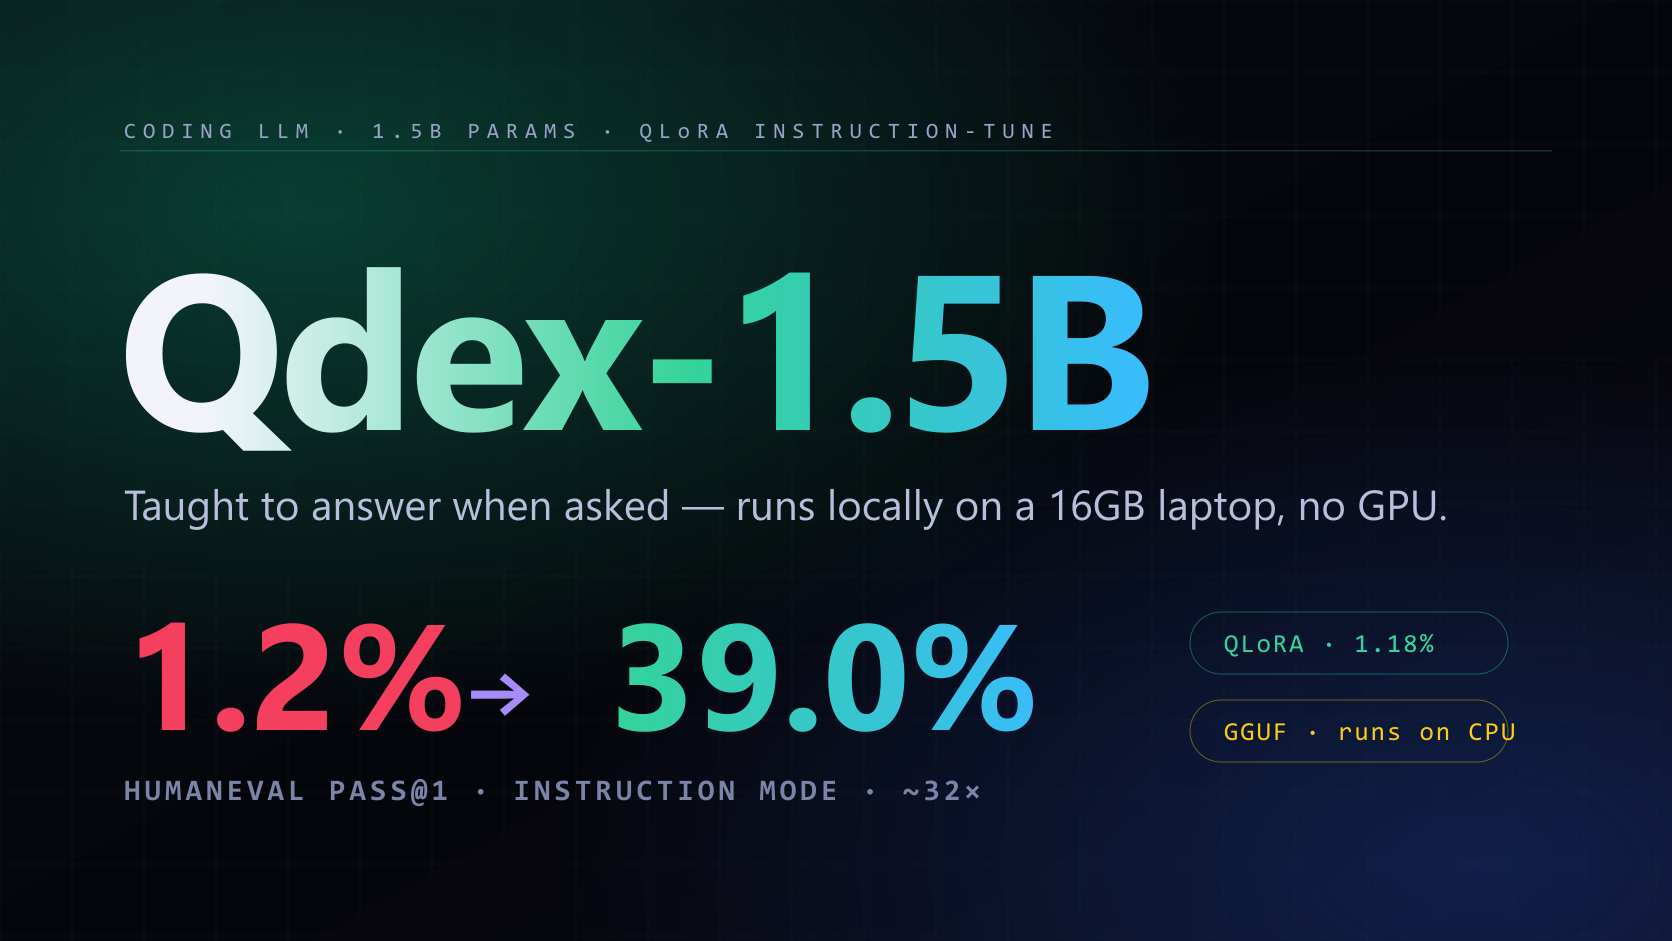
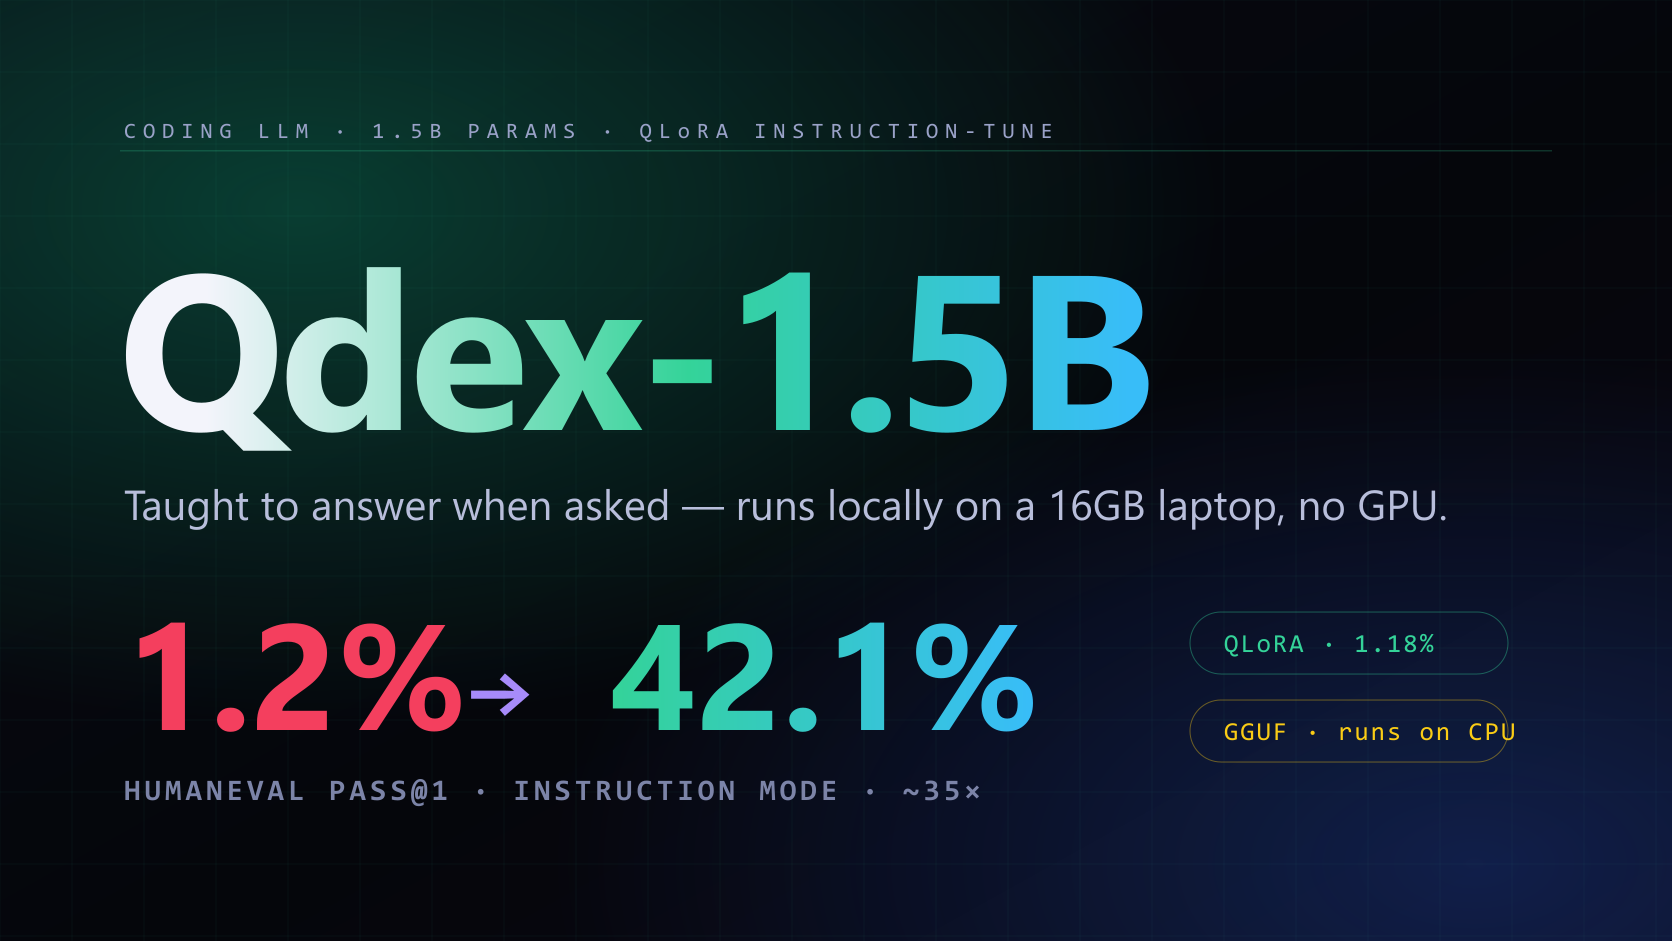
fix(llms): correct Qdex-1.5B HumanEval score to 42.1% after scorer fix
Audited the eval harness — the instruction-mode scorer was undercounting
(correct solutions failing on output-formatting artifacts). Hardened the
extractor and re-ran the full 164-problem benchmark for a fair number.

- 39.0% -> 42.1%, 64/164 -> 69/164, ~32x -> ~35x throughout
- reframe interpretation: Qdex now matches and slightly edges the base
  model's raw-completion ability (42.1% vs 40.2%), not just "recovers ~97%"
- stat band: "97% of base recovered" -> "+1.9 pts above base raw-completion"
- add the benchmark-audit note to the Engineering challenges section
- regenerate homepage cover image (public/qdex-images/cover.png)

Changed region(s): [[0.3421, 0.6472, 0.4665, 0.8013], [0.4976, 0.6472, 0.5598, 0.7705]]

diff --git a/app/llms/qdex-1.5b/page.tsx b/app/llms/qdex-1.5b/page.tsx
@@ -13,7 +13,7 @@ const SITE_URL = "https://sumandebnath.houseofnamus.com";
 export const metadata: Metadata = {
   title: "Qdex-1.5B — a 1.5B coding LLM, QLoRA-tuned to follow instructions and run locally (GGUF · CPU)",
   description:
-    "Qdex-1.5B is an instruction-tuned coding model built on Qwen2.5-Coder-1.5B with QLoRA. Fine-tuning lifted instruction-mode HumanEval pass@1 from 1.2% to 39.0% (~32×), recovering ~97% of the base model's raw coding ability — and it runs locally on a 16GB no-GPU laptop via Ollama / llama.cpp (GGUF). Open weights on Hugging Face, code on GitHub.",
+    "Qdex-1.5B is an instruction-tuned coding model built on Qwen2.5-Coder-1.5B with QLoRA. Fine-tuning lifted instruction-mode HumanEval pass@1 from 1.2% to 42.1% (~35×), matching and slightly edging the base model's raw coding ability (42.1% vs 40.2%) — and it runs locally on a 16GB no-GPU laptop via Ollama / llama.cpp (GGUF). Open weights on Hugging Face, code on GitHub.",
   keywords: [
     "Qdex-1.5B",
     "Qdex",
@@ -42,7 +42,7 @@ export const metadata: Metadata = {
     type: "website",
     title: "Qdex-1.5B · taught to answer when asked",
     description:
-      "A 1.5B coding LLM, QLoRA-tuned on Qwen2.5-Coder-1.5B. Instruction-mode HumanEval pass@1: 1.2% → 39.0% (~32×), ~97% of the base model's raw ability — runs locally on CPU via GGUF.",
+      "A 1.5B coding LLM, QLoRA-tuned on Qwen2.5-Coder-1.5B. Instruction-mode HumanEval pass@1: 1.2% → 42.1% (~35×), matching and slightly edging the base model's raw ability — runs locally on CPU via GGUF.",
     url: "/llms/qdex-1.5b",
     images: [{ url: "/og-image.png", width: 1200, height: 630, alt: "Qdex-1.5B — a small coding LLM that runs on your laptop." }],
   },
@@ -50,7 +50,7 @@ export const metadata: Metadata = {
     card: "summary_large_image",
     title: "Qdex-1.5B · a 1.5B coding LLM that runs on your laptop",
     description:
-      "QLoRA fine-tune of Qwen2.5-Coder-1.5B. Instruction-mode HumanEval: 1.2% → 39.0%. GGUF, runs on a 16GB no-GPU laptop. Open weights.",
+      "QLoRA fine-tune of Qwen2.5-Coder-1.5B. Instruction-mode HumanEval: 1.2% → 42.1%. GGUF, runs on a 16GB no-GPU laptop. Open weights.",
     images: ["/og-image.png"],
   },
 };
@@ -81,7 +81,7 @@ const articleJsonLd = {
   "@type": "TechArticle",
   headline: "Qdex-1.5B — teaching a small coding model to answer when asked",
   description:
-    "How a 1.5B coding model was instruction-tuned with QLoRA — lifting instruction-mode HumanEval pass@1 from 1.2% to 39.0%, recovering ~97% of the base model's raw coding ability, and exporting it to GGUF for local CPU use.",
+    "How a 1.5B coding model was instruction-tuned with QLoRA — lifting instruction-mode HumanEval pass@1 from 1.2% to 42.1%, matching and slightly edging the base model's raw coding ability, and exporting it to GGUF for local CPU use.",
   author: { "@type": "Person", name: "Suman Debnath", url: SITE_URL },
   mainEntityOfPage: `${SITE_URL}/llms/qdex-1.5b`,
   image: `${SITE_URL}/og-image.png`,
@@ -179,8 +179,8 @@ export default function QdexPage() {
                     <span className="text-[#f3f4fb]">locally on a 16GB laptop with no GPU</span>. Fine-tuning lifted
                     instruction-mode HumanEval from{" "}
                     <span className="text-[#F43F5E] font-medium">1.2%</span> to{" "}
-                    <span className="text-[#34D399] font-medium">39.0%</span> — a{" "}
-                    <span className="text-[#38BDF8] font-medium">~32×</span> jump.
+                    <span className="text-[#34D399] font-medium">42.1%</span> — a{" "}
+                    <span className="text-[#38BDF8] font-medium">~35×</span> jump.
                   </p>
                 </Reveal>
 
@@ -233,11 +233,12 @@ export default function QdexPage() {
               <p className="font-dmmono text-[10px] uppercase tracking-[0.3em] text-[#5a6286] mb-4">// tl;dr — the headline result</p>
               <p className="font-manrope text-lg md:text-xl text-[#c4cae6] leading-relaxed">
                 Fine-tuning took this model from <span className="text-[#F43F5E] font-medium">1.2%</span> to{" "}
-                <span className="text-[#34D399] font-medium">39.0%</span> on HumanEval (pass@1) in
-                instruction-following mode. In doing so it recovered{" "}
-                <span className="text-[#f3f4fb] font-medium">~97% of the base model&rsquo;s raw coding ability</span>{" "}
-                (39.0% vs 40.2%), while making that ability actually usable through natural instructions. The
-                fine-tune didn&rsquo;t teach the model new programming knowledge — it taught it to{" "}
+                <span className="text-[#34D399] font-medium">42.1%</span> on HumanEval (pass@1) in
+                instruction-following mode. In doing so it{" "}
+                <span className="text-[#f3f4fb] font-medium">matched and slightly edged the base model&rsquo;s raw coding ability</span>{" "}
+                (42.1% vs the base model&rsquo;s 40.2% raw-completion score) — it learned to follow instructions and
+                kept all of its coding skill, while making that ability actually usable through natural
+                instructions. The fine-tune didn&rsquo;t teach the model new programming knowledge — it taught it to{" "}
                 <span className="font-serif italic text-[#34D399]">answer when asked</span>.
               </p>
             </Reveal>
@@ -245,9 +246,9 @@ export default function QdexPage() {
             <Reveal delay={0.1} className="max-w-5xl mx-auto">
               <div className="grid grid-cols-2 md:grid-cols-3 lg:grid-cols-6 gap-px rounded-2xl overflow-hidden border border-white/[0.08] bg-white/[0.06]">
                 {[
-                  { v: <><StatCounter value={1.2} decimals={1} suffix="→39" /></>, l: "HumanEval pass@1 (instruct)", c: "#34D399" },
-                  { v: <StatCounter value={32} suffix="×" />, l: "instruction-mode jump", c: "#38BDF8" },
-                  { v: <StatCounter value={97} suffix="%" />, l: "of base ability recovered", c: "#A78BFA" },
+                  { v: <><StatCounter value={1.2} decimals={1} suffix="→42" /></>, l: "HumanEval pass@1 (instruct)", c: "#34D399" },
+                  { v: <StatCounter value={35} suffix="×" />, l: "instruction-mode jump", c: "#38BDF8" },
+                  { v: <StatCounter value={1.9} decimals={1} prefix="+" suffix=" pts" />, l: "above base raw-completion", c: "#A78BFA" },
                   { v: <StatCounter value={1.18} decimals={2} suffix="%" />, l: "params trained (QLoRA)", c: "#FACC15" },
                   { v: <StatCounter value={1} suffix=" GB" />, l: "GGUF · runs on CPU", c: "#F97316" },
                   { v: <StatCounter value={0} prefix="₹" />, l: "cost · free T4 GPU", c: "#F43F5E" },
@@ -299,7 +300,7 @@ export default function QdexPage() {
                     <div className="pt-2 border-t border-white/[0.07]">
                       <p className="text-[#5a6286]">// instruction — &ldquo;write a function that&hellip;&rdquo;</p>
                       <p className="text-[#e6e9f5]">base: <span className="text-[#F43F5E]">✗ rambles · 1.2%</span></p>
-                      <p className="text-[#e6e9f5]">Qdex: <span className="text-[#34D399]">✓ answers · 39.0%</span></p>
+                      <p className="text-[#e6e9f5]">Qdex: <span className="text-[#34D399]">✓ answers · 42.1%</span></p>
                     </div>
                   </div>
                   <p className="font-manrope text-xs text-[#7c84a8] mt-5 leading-relaxed">
@@ -353,8 +354,8 @@ export default function QdexPage() {
                       The base model could code (40.2% in completion mode — which also matches the published paper,
                       confirming the harness is sound), but was nearly useless when actually{" "}
                       <em className="text-[#dfe3f2]">asked</em> (1.2%). After fine-tuning, Qdex answers coding
-                      requests at <span className="text-[#34D399] font-medium">39.0%</span> — almost the model&rsquo;s
-                      full latent ability, now reachable through instructions.
+                      requests at <span className="text-[#34D399] font-medium">42.1%</span> — matching, and slightly
+                      edging, the model&rsquo;s full latent ability, now reachable through instructions.
                     </p>
                   </div>
                 </Reveal>
@@ -583,6 +584,12 @@ export default function QdexPage() {
                   <span>The third run completed and every artifact survived. The lesson — assume the session can die at any moment — is what separates a notebook that works once from a pipeline you can trust.</span>
                 </div>
               </Reveal>
+              <Reveal delay={0.12}>
+                <div className="flex items-start gap-3 mt-4 font-dmmono text-[11.5px] text-[#d8d9f4] border-l-2 border-[#8FD6FB]/60 pl-4 py-1">
+                  <span className="text-[#8FD6FB] text-base leading-none mt-0.5">⌖</span>
+                  <span>I also audited my own benchmark and found a scoring bug that was undercounting the model — correct solutions were failing on output-formatting artifacts. I hardened the extractor, added a regression test, and re-ran the full benchmark for a fair number (39.0% → 42.1%).</span>
+                </div>
+              </Reveal>
             </div>
           </section>
 
@@ -663,7 +670,7 @@ export default function QdexPage() {
 
                   <div className="hidden md:flex w-44 lg:w-52 shrink-0 aspect-square rounded-2xl border border-white/15 bg-[#06120f]/60 items-center justify-center">
                     <span className="font-manrope font-semibold text-2xl bg-clip-text text-transparent text-center leading-tight" style={{ backgroundImage: "linear-gradient(120deg,#34D399,#38BDF8)" }}>
-                      1.2%<br /><span className="text-white/40 text-base">→</span><br />39.0%
+                      1.2%<br /><span className="text-white/40 text-base">→</span><br />42.1%
                     </span>
                   </div>
                 </div>

diff --git a/components/qdex/qdex-data.ts b/components/qdex/qdex-data.ts
@@ -20,7 +20,7 @@ export type EvalBar = {
   model: string;
   mode: string;
   pct: number;
-  ratio: string; // e.g. "64/164"
+  ratio: string; // e.g. "69/164"
   color: string;
   highlight?: boolean;
   note?: string;
@@ -49,10 +49,10 @@ export const HUMANEVAL: EvalBar[] = [
     key: "qdex-instruction",
     model: "Qdex-1.5B (this model)",
     mode: "instruction",
-    pct: 39.0,
-    ratio: "64/164",
+    pct: 42.1,
+    ratio: "69/164",
     color: QDEX.emerald,
     highlight: true,
-    note: "~97% of latent ability, now usable through instructions",
+    note: "matched and slightly edged the base model's raw ability, now usable through instructions",
   },
 ];

diff --git a/components/qdex/QdexVisuals.tsx b/components/qdex/QdexVisuals.tsx
@@ -97,9 +97,9 @@ export function HumanEvalBars() {
         <span className="font-semibold text-2xl text-[#F43F5E] tabular-nums">1.2%</span>
         <span className="font-dmmono text-[#A78BFA] text-xl">→</span>
         <span className="font-semibold text-2xl tabular-nums bg-clip-text text-transparent" style={{ backgroundImage: `linear-gradient(90deg, ${QDEX.emerald}, ${QDEX.sky})` }}>
-          39.0%
+          42.1%
         </span>
-        <span className="font-dmmono text-[10.5px] uppercase tracking-[0.18em] text-[#7c84a8] ml-1">~32× · instruction mode</span>
+        <span className="font-dmmono text-[10.5px] uppercase tracking-[0.18em] text-[#7c84a8] ml-1">~35× · instruction mode</span>
       </div>
     </div>
   );